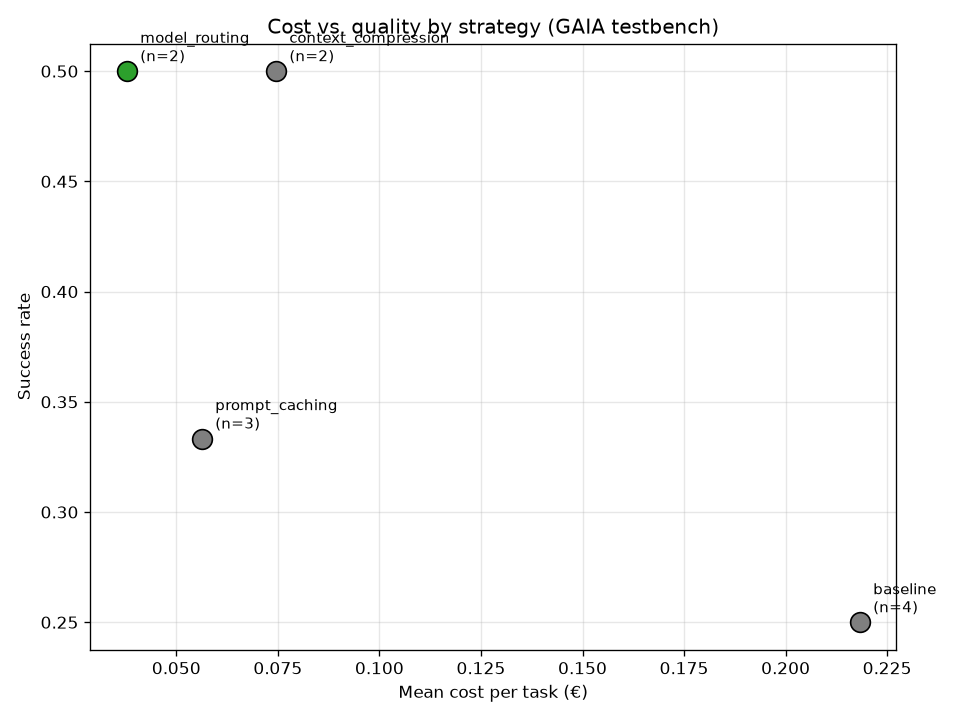
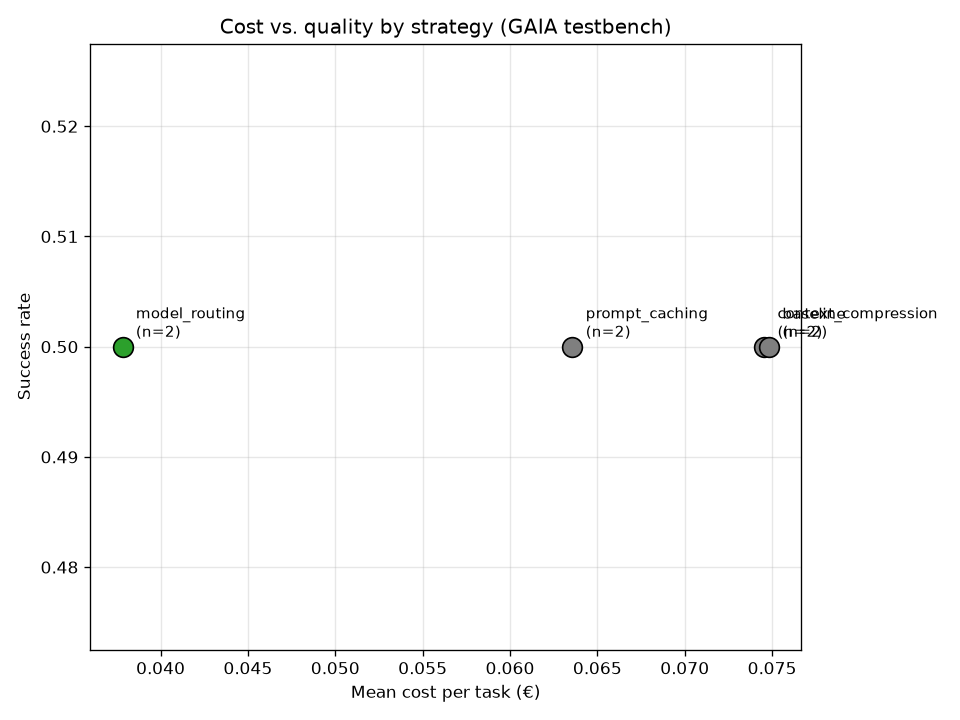
Phase 4: context_isolation + analyze.py- ja NOTES.md-korjaukset
context_isolation: orkestraattori pilkkoo kysymyksen enintään kolmeen
itsenäiseen osakysymykseen, kukin subagentti saa vain oman osatehtävänsä
(ei alkuperäistä kysymystä eikä muiden työtä), orkestraattori kokoaa
vastaukset. Hakubudjetti jaetaan (ceil(5/N)) eikä monisteta, jotta
kokonaishakumäärä pysyy vertailukelpoisena muiden strategioiden kanssa.

_run_loop ottaa nyt kysymyksen merkkijonona ja työkalulistan, jotta
orkestraattorin suunnittelu- ja synteesikutsut voi ajaa ilman hakua.
Muut strategiat päivitetty vastaamaan; savutestattu kaikilla viidellä,
kustannukset vastaavat heinäkuun pilottia.

analyze.py: pisteettömät rivit (ennen Phase 5:tä ajetut) suodatetaan pois
sen sijaan että ne laskettaisiin epäonnistumisiksi.

NOTES.md: korjattu prompt_cachingin mekanismikuvaus — system-promptin
cache_control ei luo cache-entryä, koska ~100 tokenia alittaa Sonnet 4.5:n
1024 tokenin minimin. Havaitut cache-osumat tulevat top-level-parametrista.

diff --git a/strategies.py b/strategies.py
@@ -12,6 +12,9 @@ All strategies share one agent loop (`_run_loop`); a strategy decides what to
 pass into the API call (model, cached system, context editing, ...).
 """
 
+import math
+import re
+
 import anthropic
 
 import config
@@ -36,11 +39,38 @@ ROUTING_SYSTEM = SYSTEM_PROMPT + (
     "needs several steps, or you are unsure, answer 'low'."
 )
 
+# For context_isolation. The 3-subtask cap keeps the total search budget at
+# 5-6 uses whatever the split, and stops any subagent being left with one
+# search (ceil(5/3) = 2). See NOTES.md.
+MAX_SUBTASKS = 3
+
+DECOMPOSE_SYSTEM = (
+    "You plan research. Split the question into independent sub-questions that "
+    f"can each be researched on their own, at most {MAX_SUBTASKS}. Use fewer "
+    "when the question does not decompose. Each sub-question must stand alone: "
+    "someone who has never seen the original question must be able to research "
+    "it, so name entities in full and do not refer to the other sub-questions. "
+    "Output one sub-question per line and nothing else — no numbering, no "
+    "preamble, no blank lines."
+)
+
+SUBAGENT_SYSTEM = (
+    "You are a research subagent working on one part of a larger task you "
+    "cannot see. Answer only the question given, using the web_search tool when "
+    "you need facts you are unsure of. Reply in at most three sentences: the "
+    "answer plus the evidence it rests on. If you cannot find it, say so "
+    "plainly rather than guessing."
+)
+
 # Sonnet 4.5 / Haiku 4.5 use the basic web search tool (the dynamic-filtering
 # variant needs Sonnet 4.6+). max_uses caps searches per run: production realism
-# + budget control, and it must be identical across strategies so they stay
-# comparable. See NOTES.md.
-WEB_SEARCH_TOOL = {"type": "web_search_20250305", "name": "web_search", "max_uses": 5}
+# + budget control, and the total per task must stay comparable across
+# strategies, or a cost difference just reflects search depth. See NOTES.md.
+WEB_SEARCH_MAX_USES = 5
+
+
+def _web_search_tool(max_uses: int = WEB_SEARCH_MAX_USES) -> dict:
+    return {"type": "web_search_20250305", "name": "web_search", "max_uses": max_uses}
 
 _client: anthropic.Anthropic | None = None
 
@@ -65,18 +95,26 @@ def _cost(model: str, r: dict) -> float:
 
 
 def _run_loop(
-    task: dict,
+    question: str,
     model: str,
     system,
+    tools: list | None = None,
     extra_kwargs: dict | None = None,
     beta: bool = False,
 ) -> dict:
     """Shared agent loop: ask the question, let the server-side web search run,
     handle pause_turn, accumulate token usage. Returns tokens + answer (no cost;
-    the caller adds cost and model, since one strategy may use two models)."""
+    the caller adds cost and model, since one strategy may use two models).
+
+    `tools` defaults to web search at the shared cap; pass [] for a call that
+    should not search (the orchestrator's planning and synthesis steps)."""
     client = _get_client()
-    messages = [{"role": "user", "content": task["question"]}]
+    messages = [{"role": "user", "content": question}]
     extra_kwargs = extra_kwargs or {}
+    if tools is None:
+        tools = [_web_search_tool()]
+    if tools:
+        extra_kwargs = {**extra_kwargs, "tools": tools}
     create = client.beta.messages.create if beta else client.messages.create
 
     input_tokens = output_tokens = cache_read = cache_write = 0
@@ -87,7 +125,6 @@ def _run_loop(
             model=model,
             max_tokens=config.MAX_TOKENS,
             system=system,
-            tools=[WEB_SEARCH_TOOL],
             messages=messages,
             **extra_kwargs,
         )
@@ -118,6 +155,30 @@ def _run_loop(
     }
 
 
+def _merge(parts: list[dict]) -> dict:
+    """Sum token counts and api_calls over several _run_loop results, for
+    strategies that make more than one call per task."""
+    keys = (
+        "input_tokens",
+        "output_tokens",
+        "cache_read_tokens",
+        "cache_write_tokens",
+        "api_calls",
+    )
+    return {k: sum(p[k] for p in parts) for k in keys}
+
+
+def _parse_subtasks(text: str) -> list[str]:
+    """One sub-question per line. Tolerates the model numbering or bulleting
+    them anyway; caps the count so the search budget stays predictable."""
+    subtasks = []
+    for line in text.splitlines():
+        line = re.sub(r"^\s*(?:[-*•]|\d+[.)])\s*", "", line).strip()
+        if line:
+            subtasks.append(line)
+    return subtasks[:MAX_SUBTASKS]
+
+
 def _parse_confidence(text: str) -> str:
     """Read the 'CONFIDENCE: high/low' line; default to 'low' (escalate) if
     it's missing or unclear."""
@@ -140,7 +201,7 @@ def _strip_confidence(text: str) -> str:
 
 def run_baseline(task: dict) -> dict:
     """Full context, native web search, no optimization."""
-    r = _run_loop(task, config.SONNET, SYSTEM_PROMPT)
+    r = _run_loop(task["question"], config.SONNET, SYSTEM_PROMPT)
     return {**r, "model": config.SONNET, "cost_eur": _cost(config.SONNET, r)}
 
 
@@ -151,7 +212,7 @@ def run_prompt_caching(task: dict) -> dict:
         {"type": "text", "text": SYSTEM_PROMPT, "cache_control": {"type": "ephemeral"}}
     ]
     r = _run_loop(
-        task,
+        task["question"],
         config.SONNET,
         cached_system,
         extra_kwargs={"cache_control": {"type": "ephemeral"}},
@@ -163,7 +224,7 @@ def run_context_compression(task: dict) -> dict:
     """Anthropic native context editing: clear old tool results as context
     grows (keeps the transcript lean without summarizing)."""
     r = _run_loop(
-        task,
+        task["question"],
         config.SONNET,
         SYSTEM_PROMPT,
         beta=True,
@@ -178,7 +239,7 @@ def run_context_compression(task: dict) -> dict:
 def run_model_routing(task: dict) -> dict:
     """Haiku assesses the task first; if it is confident, keep its (cheap)
     answer. Otherwise escalate to Sonnet. Cost is summed across both models."""
-    haiku = _run_loop(task, config.HAIKU, ROUTING_SYSTEM)
+    haiku = _run_loop(task["question"], config.HAIKU, ROUTING_SYSTEM)
     haiku_cost = _cost(config.HAIKU, haiku)
 
     if _parse_confidence(haiku["answer"]) == "high":
@@ -190,7 +251,7 @@ def run_model_routing(task: dict) -> dict:
         }
 
     # Not confident -> escalate to Sonnet with a fresh run.
-    sonnet = _run_loop(task, config.SONNET, SYSTEM_PROMPT)
+    sonnet = _run_loop(task["question"], config.SONNET, SYSTEM_PROMPT)
     return {
         "answer": sonnet["answer"],
         "input_tokens": haiku["input_tokens"] + sonnet["input_tokens"],
@@ -203,9 +264,62 @@ def run_model_routing(task: dict) -> dict:
     }
 
 
+def run_context_isolation(task: dict) -> dict:
+    """Orchestrator splits the question into independent subtasks; each subagent
+    gets only its own subtask, never the question or the other subagents' work.
+    The orchestrator then synthesizes the subanswers.
+
+    Cost is 2 orchestrator calls (plan + synthesize, no search) plus one call
+    per subagent. The search budget is split rather than duplicated, so the
+    total stays comparable to the other strategies -- see NOTES.md."""
+    parts = []
+
+    # 1. Plan. No search: this step only rewrites the question.
+    plan = _run_loop(task["question"], config.SONNET, DECOMPOSE_SYSTEM, tools=[])
+    parts.append(plan)
+    subtasks = _parse_subtasks(plan["answer"]) or [task["question"]]
+
+    # 2. Subagents, each with an isolated context and a share of the budget.
+    per_agent_uses = math.ceil(WEB_SEARCH_MAX_USES / len(subtasks))
+    findings = []
+    for subtask in subtasks:
+        sub = _run_loop(
+            subtask,
+            config.SONNET,
+            SUBAGENT_SYSTEM,
+            tools=[_web_search_tool(per_agent_uses)],
+        )
+        parts.append(sub)
+        findings.append((subtask, sub["answer"]))
+
+    # 3. Synthesize. No search: answer from the findings only.
+    brief = "\n\n".join(
+        f"[{i}] Sub-question: {q}\nFinding: {a}"
+        for i, (q, a) in enumerate(findings, start=1)
+    )
+    synthesis = _run_loop(
+        f"Question: {task['question']}\n\n"
+        f"Independent researchers reported these findings:\n\n{brief}\n\n"
+        "Answer the question using these findings.",
+        config.SONNET,
+        SYSTEM_PROMPT,
+        tools=[],
+    )
+    parts.append(synthesis)
+
+    merged = _merge(parts)
+    return {
+        **merged,
+        "answer": synthesis["answer"],
+        "model": config.SONNET,
+        "cost_eur": _cost(config.SONNET, merged),
+    }
+
+
 STRATEGIES = {
     "baseline": run_baseline,
     "prompt_caching": run_prompt_caching,
     "model_routing": run_model_routing,
     "context_compression": run_context_compression,
+    "context_isolation": run_context_isolation,
 }

diff --git a/analyze.py b/analyze.py
@@ -34,8 +34,18 @@ def load_all_runs() -> list[dict]:
     return runs
 
 
+def scored_only(runs: list[dict]) -> list[dict]:
+    """Drop runs with no `success` field.
+
+    Runs recorded before Phase 5 have no score. Counting them as failures would
+    understate the success rate of whichever strategy happened to run first."""
+    return [r for r in runs if "success" in r]
+
+
 def summarize(runs: list[dict]) -> dict[str, dict]:
-    """Per strategy: n runs, mean cost, success rate, cost per success."""
+    """Per strategy: n runs, mean cost, success rate, cost per success.
+
+    Expects only scored runs (see `scored_only`)."""
     by_strategy = defaultdict(list)
     for r in runs:
         by_strategy[r["strategy"]].append(r)
@@ -44,7 +54,7 @@ def summarize(runs: list[dict]) -> dict[str, dict]:
     for strat, rs in by_strategy.items():
         n = len(rs)
         total_cost = sum(r["cost_eur"] for r in rs)
-        n_success = sum(1 for r in rs if r.get("success"))
+        n_success = sum(1 for r in rs if r["success"])
         summary[strat] = {
             "n": n,
             "mean_cost": total_cost / n,
@@ -135,11 +145,20 @@ def plot(summary: dict[str, dict], frontier: set[str]) -> None:
 
 
 def main() -> None:
-    runs = load_all_runs()
-    if not runs:
+    all_runs = load_all_runs()
+    if not all_runs:
         print("No results found under results/*/run.jsonl. Run some tasks first.")
         return
-    print(f"Loaded {len(runs)} runs from results/*/run.jsonl")
+
+    runs = scored_only(all_runs)
+    unscored = len(all_runs) - len(runs)
+    print(f"Loaded {len(all_runs)} runs from results/*/run.jsonl")
+    if unscored:
+        print(f"Skipped {unscored} unscored runs (recorded before Phase 5).")
+    if not runs:
+        print("No scored runs to analyze.")
+        return
+
     summary = summarize(runs)
     frontier = pareto_frontier(summary)
     print_table(summary, frontier)

diff --git a/NOTES.md b/NOTES.md
@@ -50,21 +50,65 @@ Kaikki strategiat käyttävät `web_search`-työkalussa `max_uses = 5` (asetettu
 Tämä on tietoinen suunnitteluvalinta, ei oletusarvo. Kaikki alla olevat
 pilottitulokset on ajettu tällä asetuksella.
 
+## 2026-08-19 — Cachattavan prefiksin minimipituus: system-prompt ei cachaudu
+
+**Löydös:** `prompt_caching`-strategian `cache_control`-merkintä system-promptissa
+ei luo cache-entryä lainkaan. Anthropicin cachattavan prefiksin minimipituus on
+Sonnet 4.5:llä **1024 tokenia** ja Haiku 4.5:llä **4096**; meidän `SYSTEM_PROMPT`
+on ~100 tokenia. Minimin alittava prefiksi jätetään cachaamatta **hiljaisesti** —
+ei virhettä, ei varoitusta, `cache_creation_input_tokens` vain pysyy nollassa
+siltä breakpointilta.
+
+**Seuraus tulkintaan:** kaikki 31.7. havaitut cache-osumat (8581 read / 10149
+write) tulevat *top-level* `cache_control`-parametrista, eivät system-promptista.
+Top-level auto-cache osuu viestiprefiksiin, joka kasvaa serverin sisäisessä
+web_search-silmukassa yli minimin. Eli:
+
+| Mekanismi | Toimiiko | Miksi |
+|---|---|---|
+| `cache_control` system-promptissa | ei | ~100 tokenia < 1024 minimi |
+| top-level `cache_control` | kyllä | serverin silmukka kasvattaa prefiksin yli minimin |
+
+**Miksi tämä on tärkeä graduun:** aiempi kuvaus mekanismista oli väärä, ja väärä
+kuvaus mekanismista on vakavampi virhe kuin väärä mittaus — mittauksen voi toistaa,
+mutta väite siitä *miksi* jokin toimii kantaa läpi koko analyysin. Cachingin
+hyöty tässä testipenkissä ei tule siitä, mitä me merkitsemme cachattavaksi, vaan
+siitä mitä serverin sisäinen silmukka sattuu tuottamaan. Tämä vahvistaa 31.7.
+kirjattua mittausmenetelmän rajoitetta: emme ohjaa sitä, mistä hyöty syntyy.
+
+**Vaihtoehto jos caching halutaan aidosti mitattavaksi:** system-promptin pitäisi
+olla >1024 tokenia (esim. few-shot-esimerkkejä tai laajempi ohjeistus). Se olisi
+kuitenkin eri koeasetelma — nykyisillä tuloksilla mitataan caching-hyötyä
+*lyhyellä* system-promptilla, mikä on itsessään realistinen tapaus.
+
 ## Strategiat (Phase 4) — kuvaukset ja pilottitulokset
 
-Neljä strategiaa, kaikki Sonnet 4.5:llä paitsi routing, joka käyttää myös
+Viisi strategiaa, kaikki Sonnet 4.5:llä paitsi routing, joka käyttää myös
 Haiku 4.5:tä:
 
 - **baseline** — täysi konteksti, natiivi web-haku, ei optimointia. Vertailukohta.
-- **prompt_caching** — `cache_control` system-promptissa + viestiprefiksin
-  auto-cache. Natiivi ominaisuus. Varaus: vaikutus pieni yhden kutsun tehtävissä
-  (ks. yllä oleva serverin sisäisen silmukan löydös).
+- **prompt_caching** — top-level `cache_control` (viestiprefiksin auto-cache).
+  Natiivi ominaisuus. Huom: koodissa on myös `cache_control` system-promptissa,
+  mutta se ei tee mitään — ks. alla oleva minimipituusrajoitus.
 - **model_routing** — Haiku vastaa ensin ja raportoi itsevarmuutensa; jos
   "high", pidetään Haikun halpa vastaus; muuten eskaloidaan Sonnetille. Kustannus
   summataan molempien mallien yli.
 - **context_compression** — natiivi context editing (`clear_tool_uses`) tyhjentää
   vanhat työkalutulokset kun konteksti kasvaa. Varaus: yhden kutsun tehtävissä ei
   ole mitään tyhjennettävää.
+- **context_isolation** — orkestraattori pilkkoo kysymyksen enintään kolmeen
+  itsenäiseen osakysymykseen; kukin subagentti näkee vain oman osatehtävänsä,
+  ei alkuperäistä kysymystä eikä muiden työtä. Orkestraattori kokoaa
+  osavastaukset. Ainoa strategia jossa `api_calls > 1` on meidän hallinnassamme:
+  2 orkestraattorikutsua (suunnittelu + synteesi, ei hakua) + 1 per subagentti.
+
+**Hakubudjetin jako (19.8.).** Subagentit *jakavat* saman viiden haun budjetin
+(`ceil(5/N)` per subagentti) sen sijaan että kukin saisi oman viidenkön. Muuten
+kolmen subagentin ajo saisi 15 hakua siinä missä baseline sai 5, ja
+kustannusero heijastaisi hakubudjettia eikä kontekstin eristystä — sama
+perustelu kuin `max_uses = 5` -päätöksessä yllä. Osatehtävien katto on 3, jolloin
+kokonaishakumäärä on 5–6 riippumatta N:stä (1→5, 2→3+3, 3→2+2+2) eikä yksikään
+subagentti jää yhden haun varaan.
 
 **Pilotti** (2 tehtävää, 1 toisto, `max_uses=5`):
 
